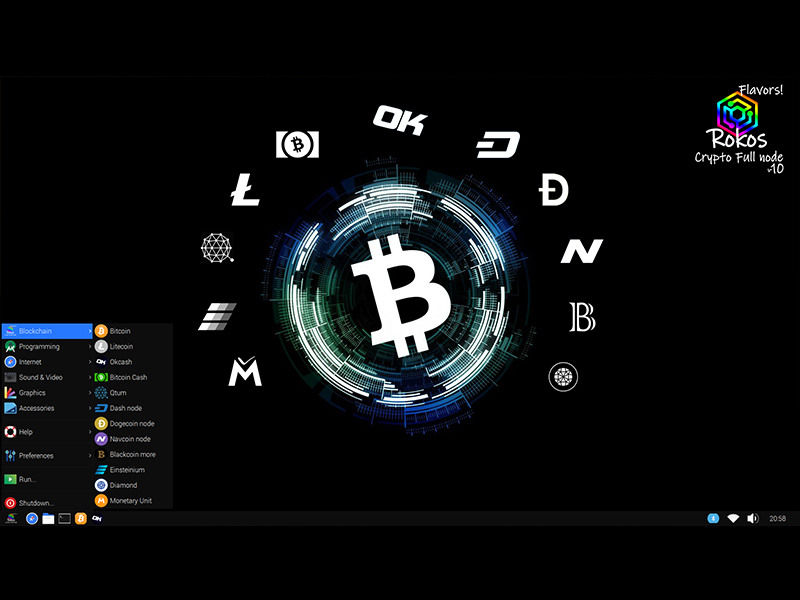
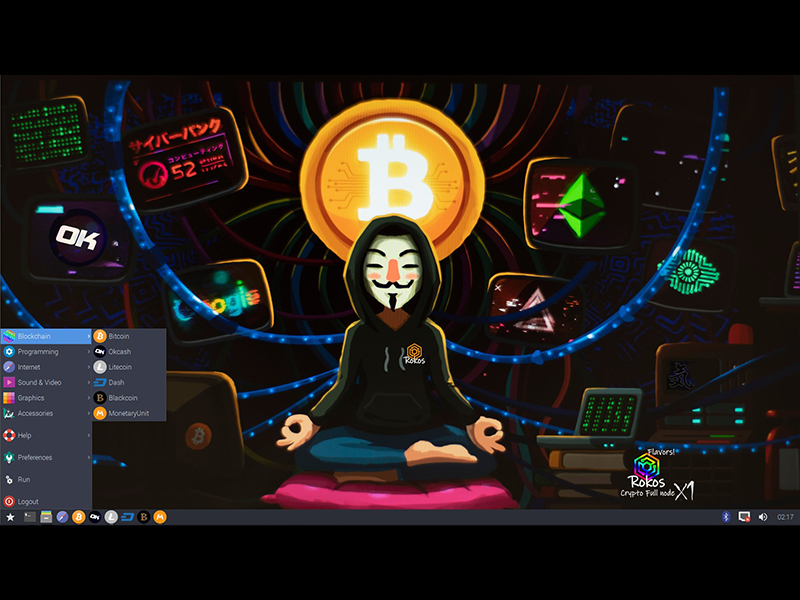
X1 flav up

diff --git a/flavors.html b/flavors.html
@@ -63,7 +63,7 @@
                             <ul class="dropdown-menu"> 
                 <li><a href="burn_sdcard.html">Burn ROKOS .img to SDcard</a></li>   
                  
-                                <li><a href="rokos_flavors.html">ROKOS flav v10 - Raspberry Pi 2, 3, 4</a></li>
+                                <li><a href="rokos_flavors.html">ROKOS flav X1 - Raspberry Pi 2, 3, 4</a></li>
 								<!-- <li><a href="#">Tutorials</a></li> -->
                             </ul>
                         </li>
@@ -98,16 +98,16 @@
 <div align="center"><strong><span style="font-size: 15pt !important; line-height: 1.3em;">Just Download and Burn to Start your own Cryptocurrency Full node</span></strong><br /><br />
  <strong><span style="font-size: 15pt !important; line-height: 1.3em;">Cryptocurrency and the Internet of Things</span></strong><br />
  <strong>Core:</strong> Debian based OS with integrated <strong>Cryptocurrency</strong> Clients, Nodes and more tools ready for use.<br /><br />
-  <strong>ROKOS v10 "Flavors" </strong>for Raspberry Pi 2, 3, 4 and IoT Devices. <br />Full Bitcoin OK Clients, nodes and much more. Faster, Easier, Stronger, more elegant.</div>
+  <strong>ROKOS X1 "Flavors" </strong>for Raspberry Pi 2, 3, 4 and IoT Devices. <br />Full Bitcoin OK Clients, nodes and much more. Faster, Easier, Stronger, more elegant.</div>
 <p><br />We support the new technology and uses for cryptocurrencies in the Raspberry Pi , Banana Pro, Pine64+, Odroid and IoT environments, hence we came up with a <strong>Free</strong> solution for every IoT enthusiast, developer, user, service that want to use their IoT devices with Bitcoin and OK, or that would like to turn their Pi into a Hardware wallet, Mining or Staking device.<br /><br />ROKOS flavors comes with fully functional Cryptocurrency Full node clients among other goodies and provides the users with the best and easier Out of the Box experience; The favorite toolbox for developers and new users alike.<br /><br /></p>
-<div align="center"><span style="font-size: 14pt !important; line-height: 1.3em;"><strong>v10 "Flavors" OS</strong> </span></div>
+<div align="center"><span style="font-size: 14pt !important; line-height: 1.3em;"><strong>X1 "Flavors" OS</strong> </span></div>
 <p><br />The First OS image release that merges the full power of Raspberry Pi zero, 2, 3, 4, Banana Pro, Pine64+ &amp; IoT Devices with Bitcoin OK and Cryptocurrencies: <br />
-- <strong>ROKOS v10 "flavors"</strong> comes with integrated Cryptocurrencies Client / node, Miners, Dev tools, deps, etc.<br /><br /></p>
+- <strong>ROKOS X1 "flavors"</strong> comes with integrated Cryptocurrencies Client / node, Miners, Dev tools, deps, etc.<br /><br /></p>
 <div align="center"><img class="userimg" src="img/raspberrypi.png" alt="" border="0" /><br /><br />
 Distribution aimed for everyone, from new IoT users to IoT Developers, Ease of use.<br />
 <strong>Download &amp; Burn, Ready for use  Out of the Box.</strong><br /><br /></div>
 <br /><strong>Requirements: </strong><br />
-ROKOS v10 "core":<br />
+ROKOS X1 "core":<br />
 - <a class="ul" href="https://www.raspberrypi.org" target="_blank">Raspberry Pi 2, 3, 4.</a> - ready for <a href="https://rokos-flavors.space/downloads.html">download</a><br />
 - <a class="ul" href="https://www.pine64.org" target="_blank">Pine64+</a> - coming update.<!-- ready for <a href="https://rokos.space/downloads.html">download</a> --><br />
 - <a class="ul" href="http://www.lemaker.org/" target="_blank">Banana Pro</a> - coming update.<!-- ready for <a href="https://rokos.space/downloads.html">download</a>--><br />
@@ -115,9 +115,9 @@ ROKOS v10 "core":<br />
 - 16gb SD card.<br />
 - External device (usb / hdd / ssd). To sync the BTC chain on the external device instead of the SD card, BTC chain alone is around 280gb.<br /><br /></p>
 
-<div align="center"><strong>[Screenshots]</br>ROKOS v10 "flavors" Crypto Full node OS</strong><br /><br />
-<img class="userimg" src="img/screens/rokos-v10f-menu.png" alt="" border="0" /><br /><br />
-<img class="userimg" src="img/screens/rokos-v10f-btc.png" alt="" border="0" /></div>
+<div align="center"><strong>[Screenshots]</br>ROKOS X1 "flavors" Crypto Full node OS</strong><br /><br />
+<img class="userimg" src="img/screens/rokos-f-menu.png" alt="" border="0" /><br /><br />
+<img class="userimg" src="img/screens/rokos-f-btc.png" alt="" border="0" /></div>
 <p>&nbsp;</p>
 
 	</section>

diff --git a/index.html b/index.html
@@ -63,7 +63,7 @@
                             <ul class="dropdown-menu"> 
                 <li><a href="burn_sdcard.html">Burn ROKOS .img to SDcard</a></li>   
                   
-                                <li><a href="rokos_flavors.html">ROKOS flav v10 - Raspberry Pi 2, 3, 4</a></li>
+                                <li><a href="rokos_flavors.html">ROKOS flav X1 - Raspberry Pi 2, 3, 4</a></li>
 								<!-- <li><a href="#">Tutorials</a></li> -->
                             </ul>
                         </li>
@@ -85,7 +85,7 @@
         <div id="main-slider" class="flexslider">
             <ul class="slides">
               <li>
-                <img src="img/slides/1.jpg" alt="" />
+                <img src="img/slides/0.jpg" alt="" />
                 <div class="flex-caption">
                     <h3>Altcoins & IoT<br />- Wonderful Mix</h3> 
 					<p>The #1 OS for IoT devices with Bitcoin and the Best Cryptocurrencies.</p>
@@ -93,7 +93,7 @@
                 </div>
               </li>
 			  <li>
-                <img src="img/slides/0.png" alt="" />
+                <img src="img/slides/1.jpg" alt="" />
                 <div class="flex-caption">
                     <h3>Cryptocurrency<br />Out of the Box</h3> 
 					<p>Download, Burn to SD and it is ready to use</p> 

diff --git a/flavors-tech.html b/flavors-tech.html
@@ -61,7 +61,7 @@
                             <a href="#" class="dropdown-toggle " data-toggle="dropdown" data-hover="dropdown" data-delay="0" data-close-others="false">How to Install <b class=" icon-angle-down"></b></a>
                             <ul class="dropdown-menu"> 
                 <li><a href="burn_sdcard.html">Burn ROKOS .img to SDcard</a></li>   
-                <li><a href="rokos_flavors.html">ROKOS flav v10 - Raspberry Pi 2, 3, 4</a></li>
+                <li><a href="rokos_flavors.html">ROKOS flav X1 - Raspberry Pi 2, 3, 4</a></li>
 								<!-- <li><a href="#">Tutorials</a></li> -->
                             </ul>
                         </li>
@@ -116,7 +116,7 @@
 	</td></tr></table>
 	<table width="55%">
 	<tr><td>
-	<p><br /><br /><strong>Some of the ROKOS flavors v10 features are: </strong><br />
+	<p><br /><br /><strong>Some of the ROKOS flavors X1 features are: </strong><br />
 	 <br />
 	- Updated <strong>Bitcoin</strong> client / node <strong>v0.19.0.1</strong> with full functionality.<br />
 	- Updated <strong>Okcash</strong> client / node <strong>v5.0.0.2</strong> with full functionality.<br />

diff --git a/burn_sdcard.html b/burn_sdcard.html
@@ -62,7 +62,7 @@
                             <ul class="dropdown-menu"> 
                 <li><a href="burn_sdcard.html">Burn ROKOS .img to SDcard</a></li>   
                  
-                                <li><a href="rokos_flavors.html">ROKOS flav v10 - Raspberry Pi 2, 3, 4</a></li>
+                                <li><a href="rokos_flavors.html">ROKOS flav X1 - Raspberry Pi 2, 3, 4</a></li>
 								<!-- <li><a href="#">Tutorials</a></li> -->
                             </ul>
                         </li>

diff --git a/core.html b/core.html
@@ -62,7 +62,7 @@
                             <ul class="dropdown-menu"> 
                 <li><a href="burn_sdcard.html">Burn ROKOS .img to SDcard</a></li>   
                  
-                                <li><a href="rokos_flavors.html">ROKOS flav v10 - Raspberry Pi 2, 3, 4</a></li>
+                                <li><a href="rokos_flavors.html">ROKOS flav X1 - Raspberry Pi 2, 3, 4</a></li>
 								<!-- <li><a href="#">Tutorials</a></li> -->
                             </ul>
                         </li>

diff --git a/downloads.html b/downloads.html
@@ -62,7 +62,7 @@
                             <ul class="dropdown-menu"> 
                 <li><a href="burn_sdcard.html">Burn ROKOS .img to SDcard</a></li>   
                  
-                                <li><a href="rokos_flavors.html">ROKOS flav v10 - Raspberry Pi 2, 3, 4</a></li>
+                                <li><a href="rokos_flavors.html">ROKOS flav X1 - Raspberry Pi 2, 3, 4</a></li>
 								<!-- <li><a href="#">Tutorials</a></li> -->
                             </ul>
                         </li>

diff --git a/rokos_core.html b/rokos_core.html
@@ -62,7 +62,7 @@
                             <ul class="dropdown-menu"> 
                 <li><a href="burn_sdcard.html">Burn ROKOS .img to SDcard</a></li>   
                  
-                                <li><a href="rokos_flavors.html">ROKOS flav v10 - Raspberry Pi 2, 3, 4</a></li>
+                                <li><a href="rokos_flavors.html">ROKOS flav X1 - Raspberry Pi 2, 3, 4</a></li>
 								<!-- <li><a href="#">Tutorials</a></li> -->
                             </ul>
                         </li>

diff --git a/rokos_corepi.html b/rokos_corepi.html
@@ -62,7 +62,7 @@
                             <ul class="dropdown-menu"> 
                 <li><a href="burn_sdcard.html">Burn ROKOS .img to SDcard</a></li>   
                  
-                                <li><a href="rokos_flavors.html">ROKOS flav v10 - Raspberry Pi 2, 3, 4</a></li>
+                                <li><a href="rokos_flavors.html">ROKOS flav X1 - Raspberry Pi 2, 3, 4</a></li>
 								<!-- <li><a href="#">Tutorials</a></li> -->
                             </ul>
                         </li>

diff --git a/rokos_flavors.html b/rokos_flavors.html
@@ -63,7 +63,7 @@
                             <ul class="dropdown-menu"> 
                 <li><a href="burn_sdcard.html">Burn ROKOS .img to SDcard</a></li>   
                  
-                                <li><a href="rokos_flavors.html">ROKOS flav v10 - Raspberry Pi 2, 3, 4</a></li>
+                                <li><a href="rokos_flavors.html">ROKOS flav X1 - Raspberry Pi 2, 3, 4</a></li>
 								<!-- <li><a href="#">Tutorials</a></li> -->
                             </ul>
                         </li>

diff --git a/support.html b/support.html
@@ -62,7 +62,7 @@
                             <ul class="dropdown-menu"> 
                 <li><a href="burn_sdcard.html">Burn ROKOS .img to SDcard</a></li>   
                  
-                                <li><a href="rokos_flavors.html">ROKOS flav v10 - Raspberry Pi 2, 3, 4</a></li>
+                                <li><a href="rokos_flavors.html">ROKOS flav X1 - Raspberry Pi 2, 3, 4</a></li>
 								<!-- <li><a href="#">Tutorials</a></li> -->
                             </ul>
                         </li>
